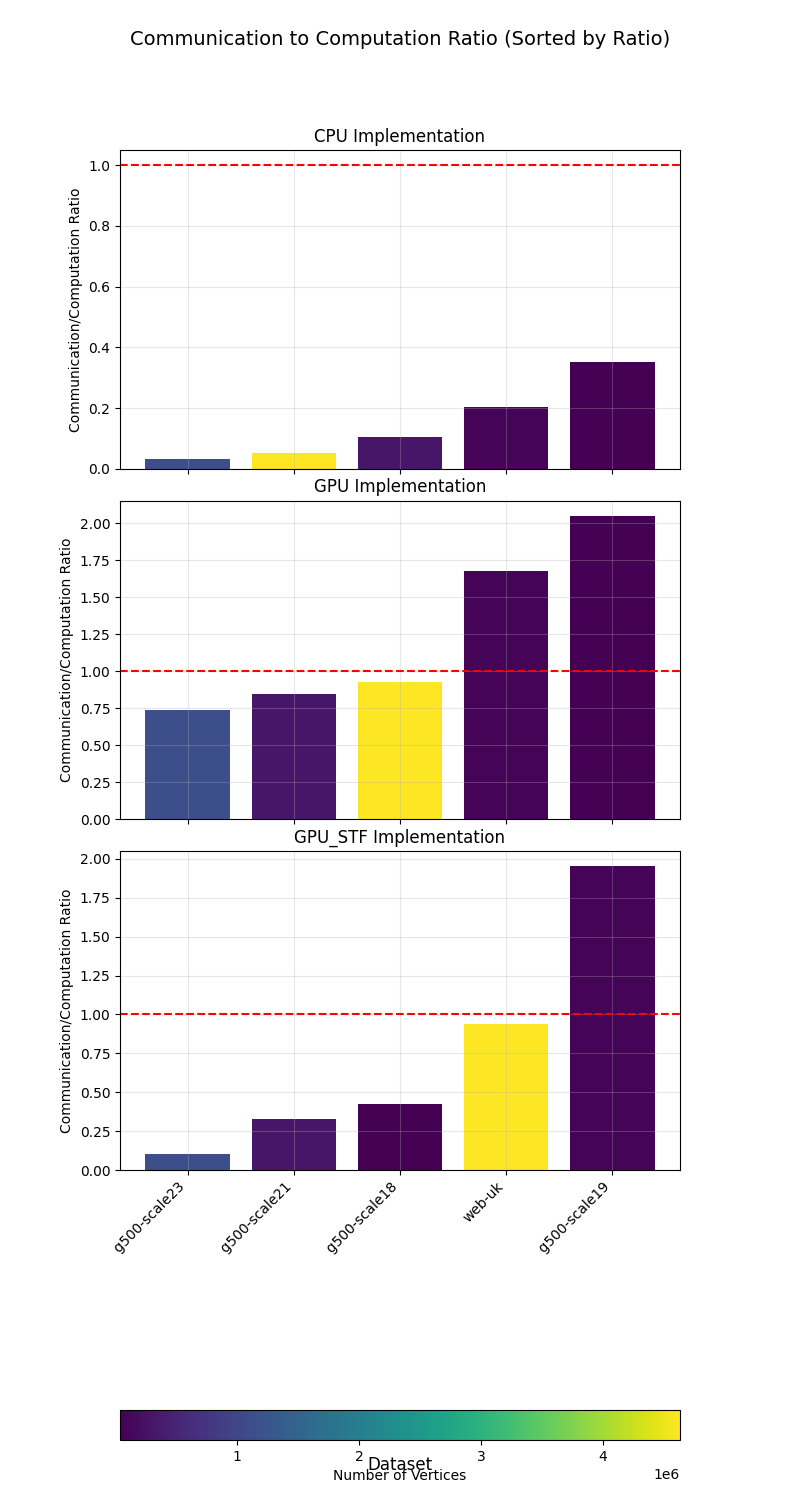
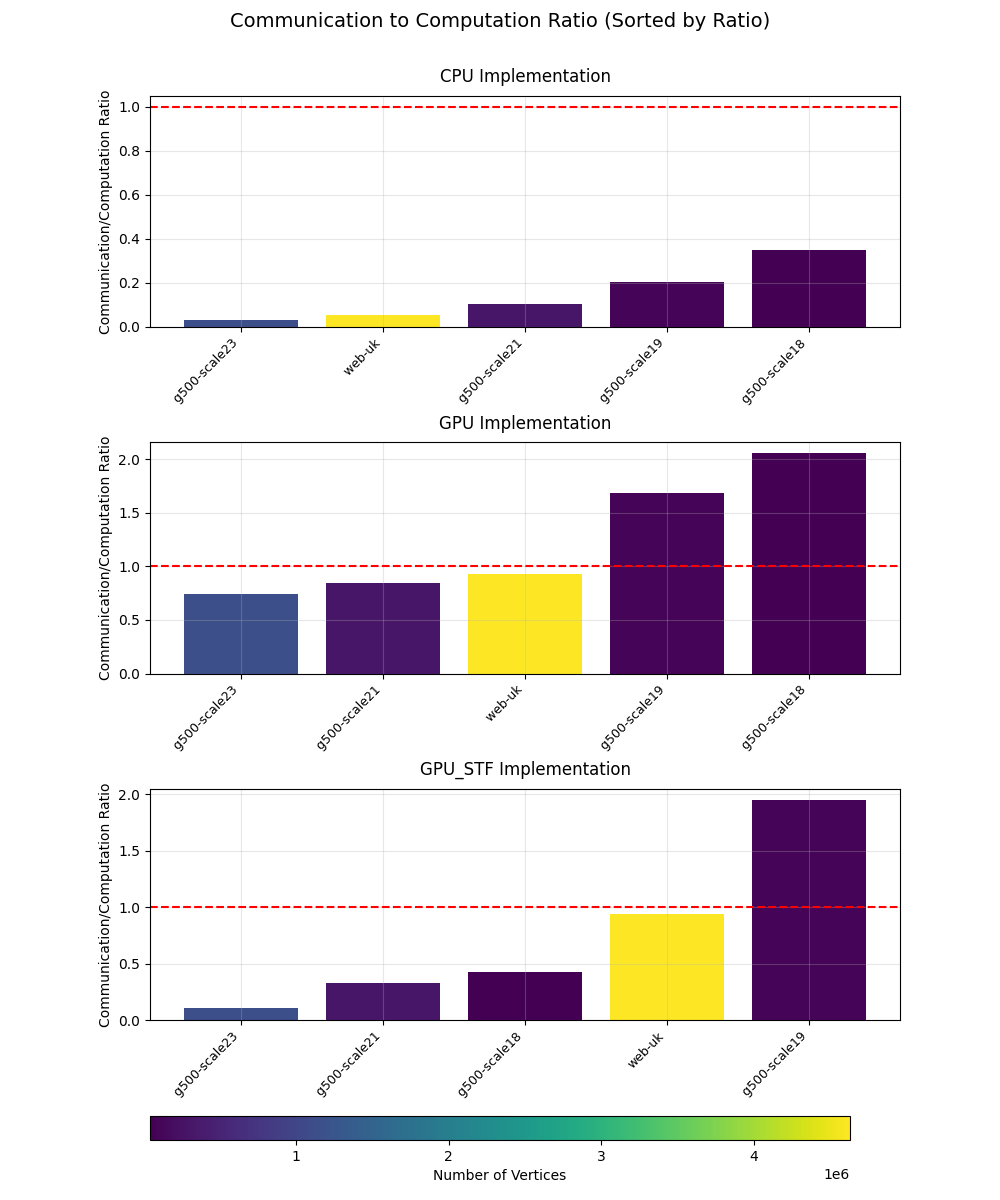
updates readme and makes first plot look a lot better

diff --git a/benchmarking/plotting.py b/benchmarking/plotting.py
@@ -126,7 +126,7 @@ plt.close()
 
 # --------------- Communication to Computation Ratio ---------------
 # Create a dynamic vertical layout with as many rows as implementations
-fig, axes = plt.subplots(len(implementations), 1, figsize=(8, 5 * len(implementations)), sharex=True)
+fig, axes = plt.subplots(len(implementations), 1, figsize=(10, 4 * len(implementations)))
 
 # For each implementation
 for i, impl in enumerate(implementations):
@@ -153,31 +153,21 @@ for i, impl in enumerate(implementations):
     x_pos = np.arange(len(impl_df))
     bars = ax.bar(x_pos, impl_df['ratio'], color=colors)
     
-    # Add labels and styling - fix the FixedFormatter warning by properly setting ticks
+    # Add labels and styling - ensure clear dataset names
     ax.set_xticks(x_pos)
-    ax.set_xticklabels(impl_df['dataset'].values, rotation=45, ha='right')
-    ax.set_title(f'{impl} Implementation')
+    ax.set_xticklabels(impl_df['dataset'].values, rotation=45, ha='right', fontsize=9)
+    ax.set_title(f'{impl} Implementation', pad=10)
     ax.axhline(y=1, color='r', linestyle='--', label='Equal ratio')
     ax.grid(True, alpha=0.3)
     
     # Add y-axis label to each subplot
     ax.set_ylabel('Communication/Computation Ratio')
-    
-    # Add x-axis label to each subplot
-    ax.set_xlabel('Dataset')
 
-# Use a subtitle instead of y-axis label
-fig.suptitle('Communication to Computation Ratio (Sorted by Ratio)', fontsize=14)
+# Use a title for the whole figure
+fig.suptitle('Communication to Computation Ratio (Sorted by Ratio)', fontsize=14, y=0.99)
 
-# Adjust layout to accommodate individual x-axis labels
-plt.subplots_adjust(left=0.15, right=0.85, bottom=0.1, top=0.95, hspace=0.4)
-
-# Remove the common x-axis label since we now have individual ones
-# fig.text(0.5, 0.02, 'Dataset', ha='center', fontsize=12)  # This line should be removed or commented out
-
-# Add a common colorbar
-# Create space for the colorbar by adjusting the figure
-plt.subplots_adjust(left=0.15, right=0.85, bottom=0.22, top=0.9, hspace=0.1)
+# Single, unified adjustment for layout with proper spacing - more space below title
+plt.subplots_adjust(left=0.15, right=0.9, bottom=0.15, top=0.92, hspace=0.5)
 
 # Add a common colorbar
 norm = plt.Normalize(df['total_vertices'].min(), df['total_vertices'].max())
@@ -185,7 +175,7 @@ sm = plt.cm.ScalarMappable(cmap='viridis', norm=norm)
 sm.set_array([])
 
 # Position the colorbar properly
-cbar_ax = fig.add_axes([0.15, 0.04, 0.7, 0.02])  # [left, bottom, width, height]
+cbar_ax = fig.add_axes([0.15, 0.05, 0.7, 0.02])  # [left, bottom, width, height]
 cbar = fig.colorbar(sm, cax=cbar_ax, orientation='horizontal')
 cbar.set_label('Number of Vertices')
 
